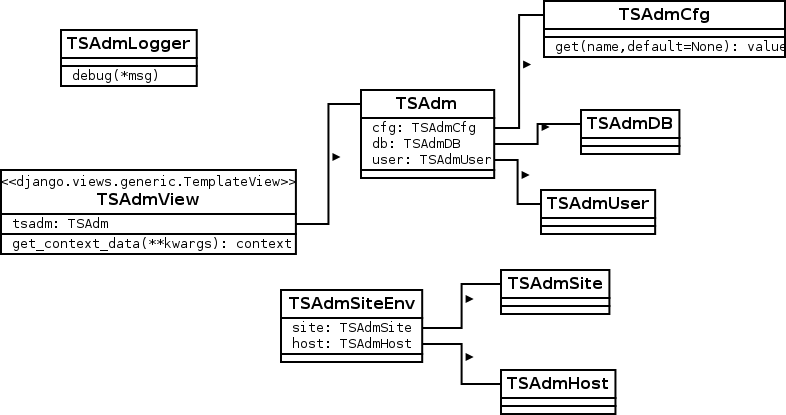
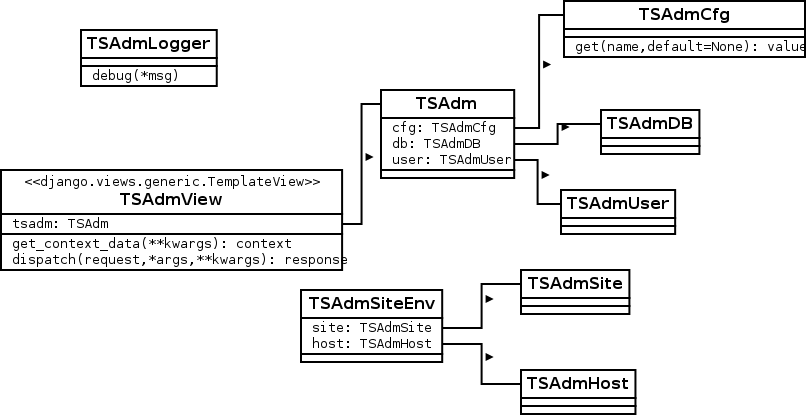
override dispatch method

diff --git a/src/tsadmviews/__init__.py b/src/tsadmviews/__init__.py
@@ -19,3 +19,9 @@ class TSAdmView(LoginRequiredMixin, TemplateView):
         context = super(TSAdmView, self).get_context_data(**kwargs)
         context['tsadm'] = dict()
         return context
+
+    def dispatch(self, request, *args, **kwargs):
+        logger.debug('dispatch', request)
+        response = super(TSAdmView, self).dispatch(request, *args, **kwargs)
+        logger.debug('dispatch response:', response)
+        return response
